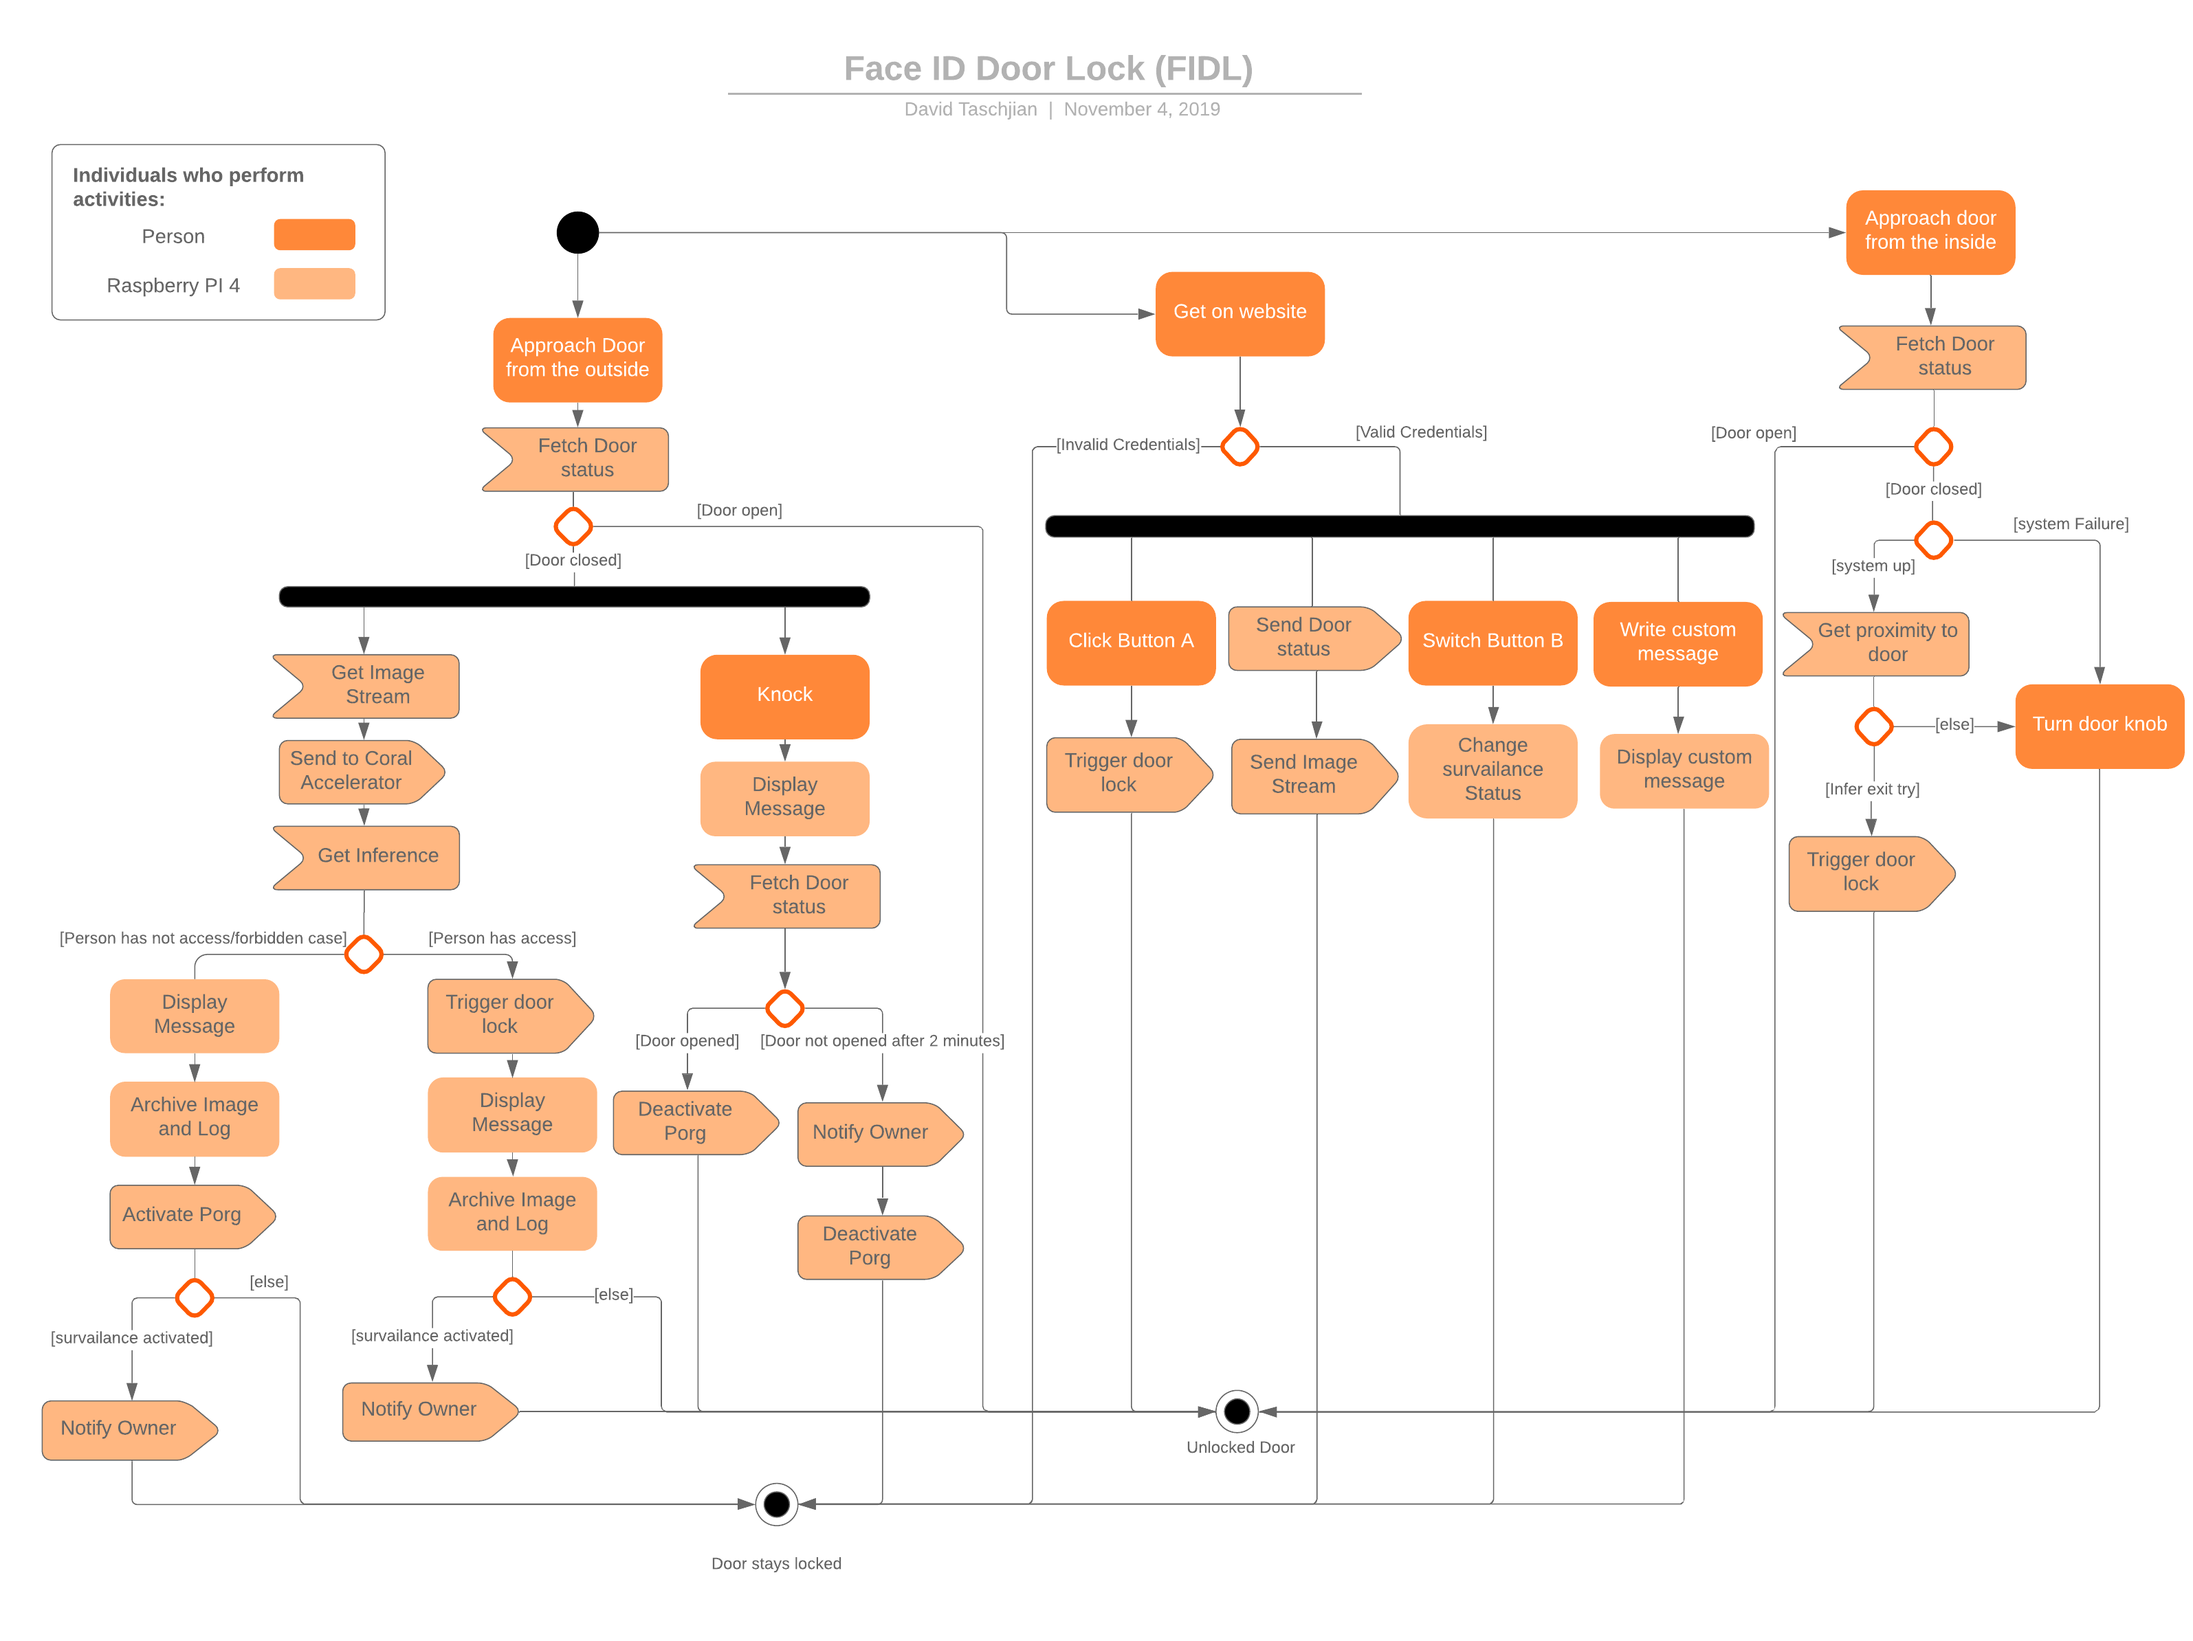
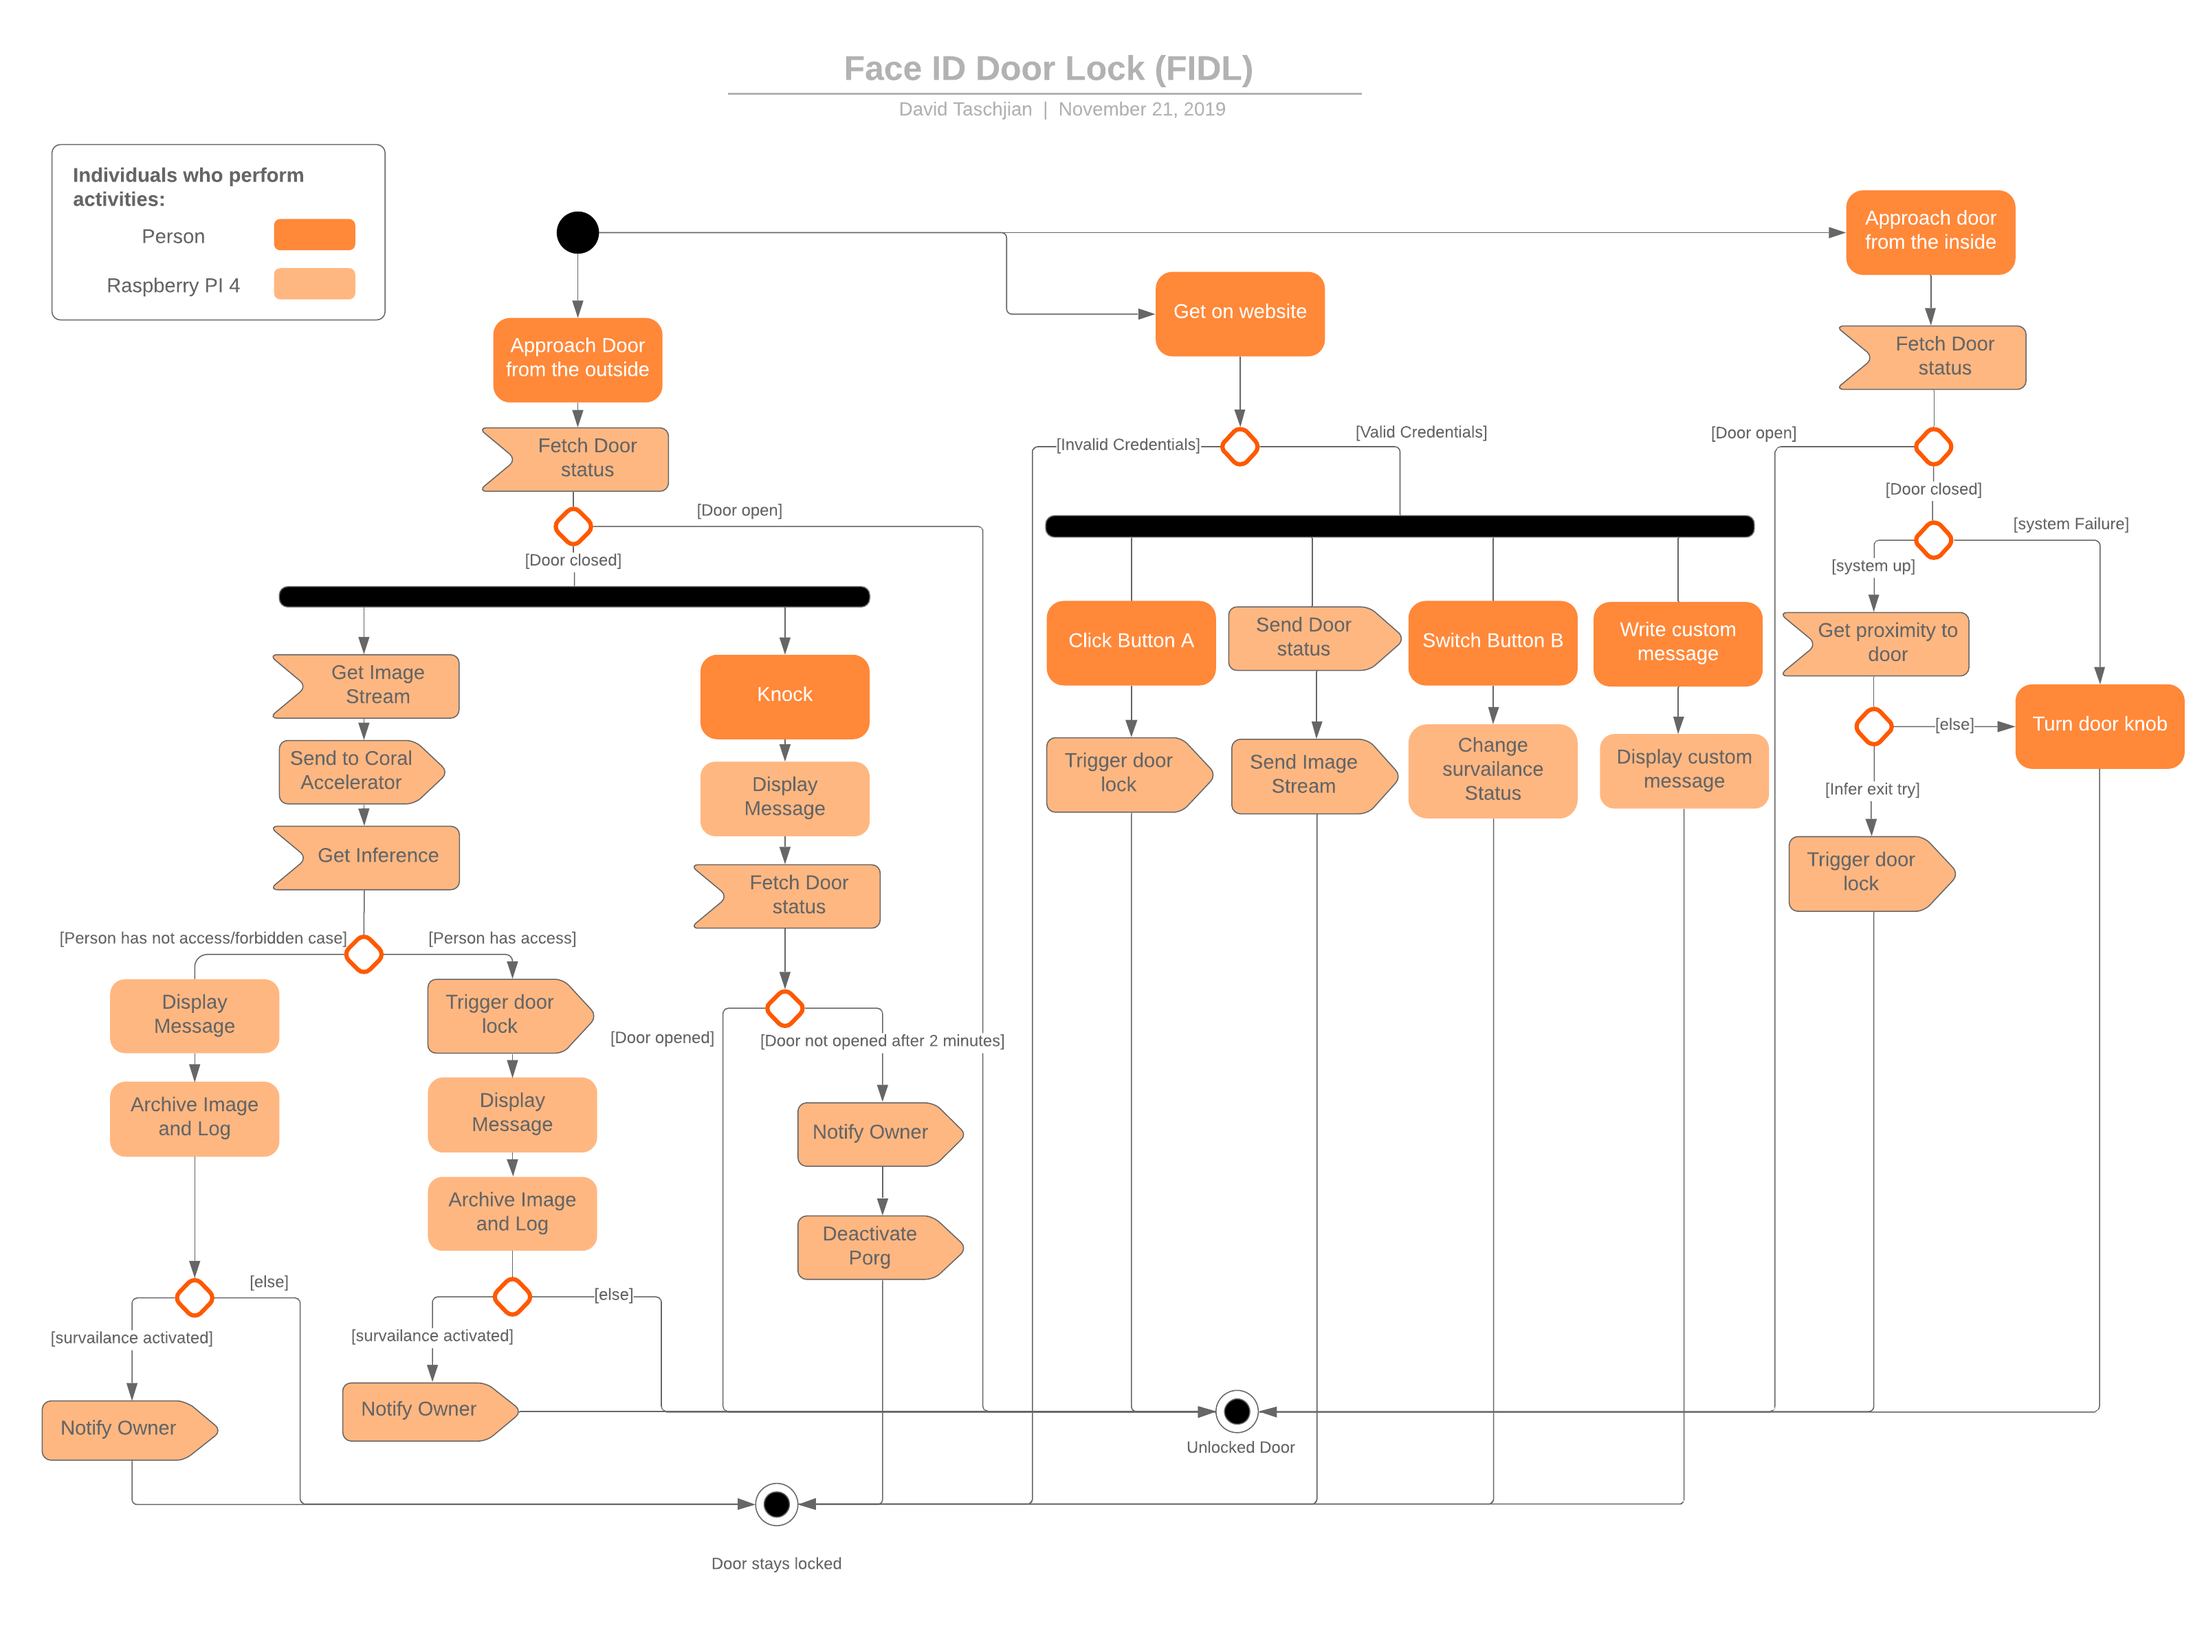
removed porg

diff --git a/libfidl.py b/libfidl.py
@@ -150,7 +150,6 @@ def retrain_model(props):
     props['model']['labels'] = props['model']['path'].replace('model','labels').replace('tflite','json')
     with open(props['model']['labels'] , 'w') as f:
         json.dump(labels_map, f, indent=4)
-
     #Evaluating how well the retrained model performed
     click.echo('Start evaluation')
     engine = ClassificationEngine(props['model']['path'])
@@ -178,6 +177,9 @@ def retrain_model(props):
         if not click.confirm('Do you want to keep old models?'):
             os.remove(old_model)
             os.remove(old_labels)
+            click.echo(click.style('Old models removed.', fg='green'))
+    #saving properties
+    save_properties(props)
 
 def run_classification(props):
   engine = ClassificationEngine(props['model']['path'])

diff --git a/fidl.py b/fidl.py
@@ -26,7 +26,10 @@ def main(adduser, access, passwd):
 
             props['user'][adduser] = {'password': hashed_password, 'access': True, 'images':path}
             #retrain Model
-            libfidl.retrain_model(props)
+            if click.confirm('Do you want to retrain the Model?')
+                libfidl.retrain_model(props)
+            else:
+                libfidl.save_properties(props)
             click.echo(click.style('Done. User added!', fg= 'green'))
         else:
             click.echo(click.style('Abort', fg= 'red'))
